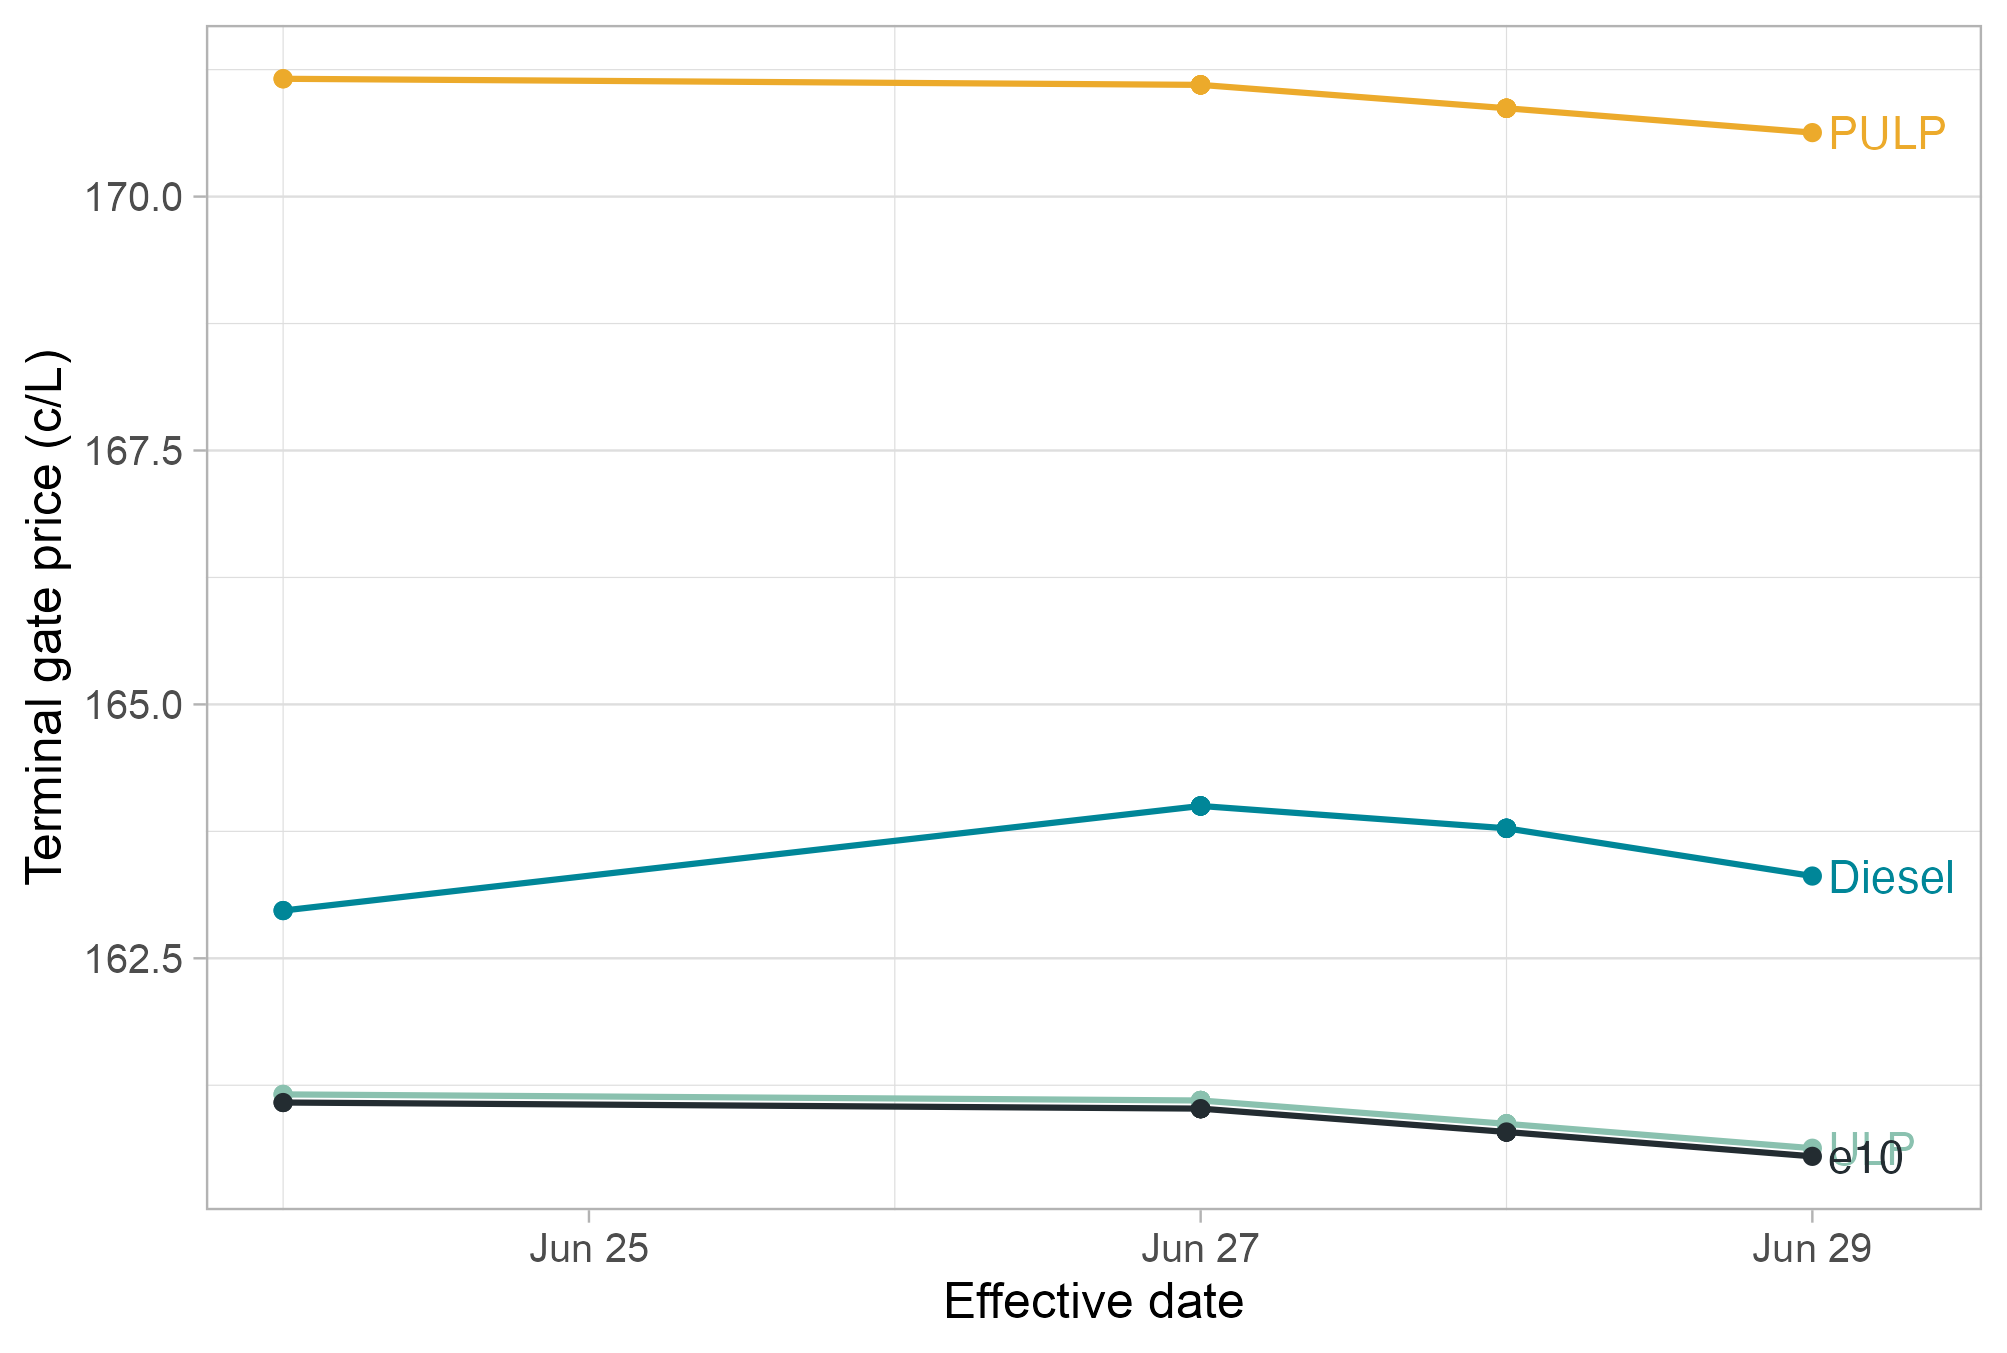
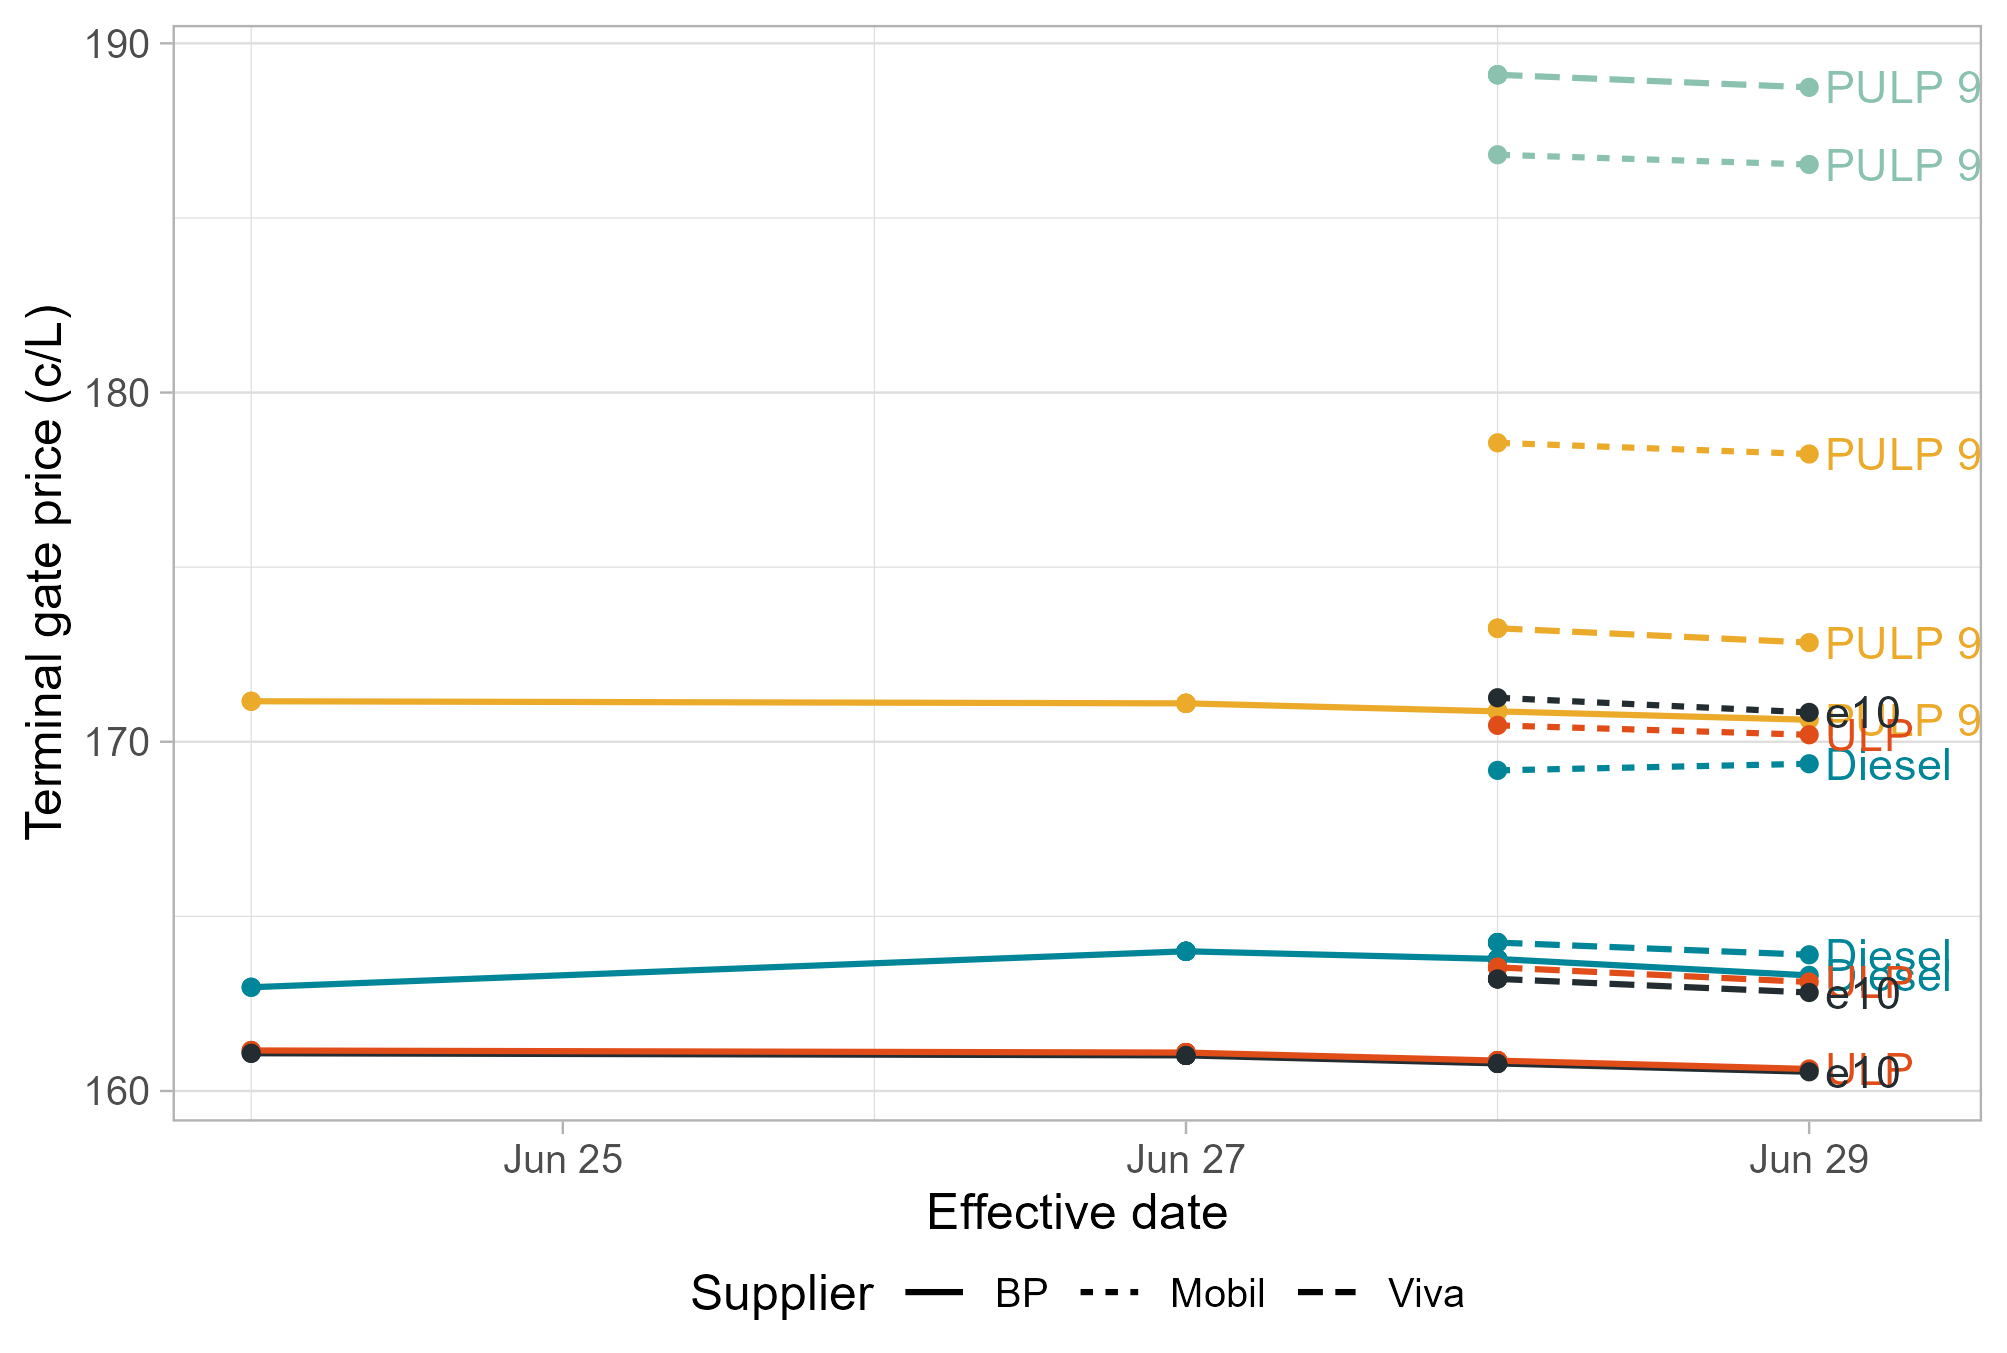
Add more

diff --git a/README.md b/README.md
@@ -1,5 +1,5 @@
 # scrape-tgps
 
-This repo collects daily TGPs in Australia. Here's a history of BP's TGPs at its terminal in Botany, Sydney:
+This repo collects daily TGPs in Australia. Here's a history of Mobil, Viva and BP's TGPs at their terminals in Sydney:
 
-![BP TGP at Sydney-Botany terminal](figures/png/bp.png)
+![BP, Viva, Mobil TGP at Sydney terminals](figures/png/bp.png)
